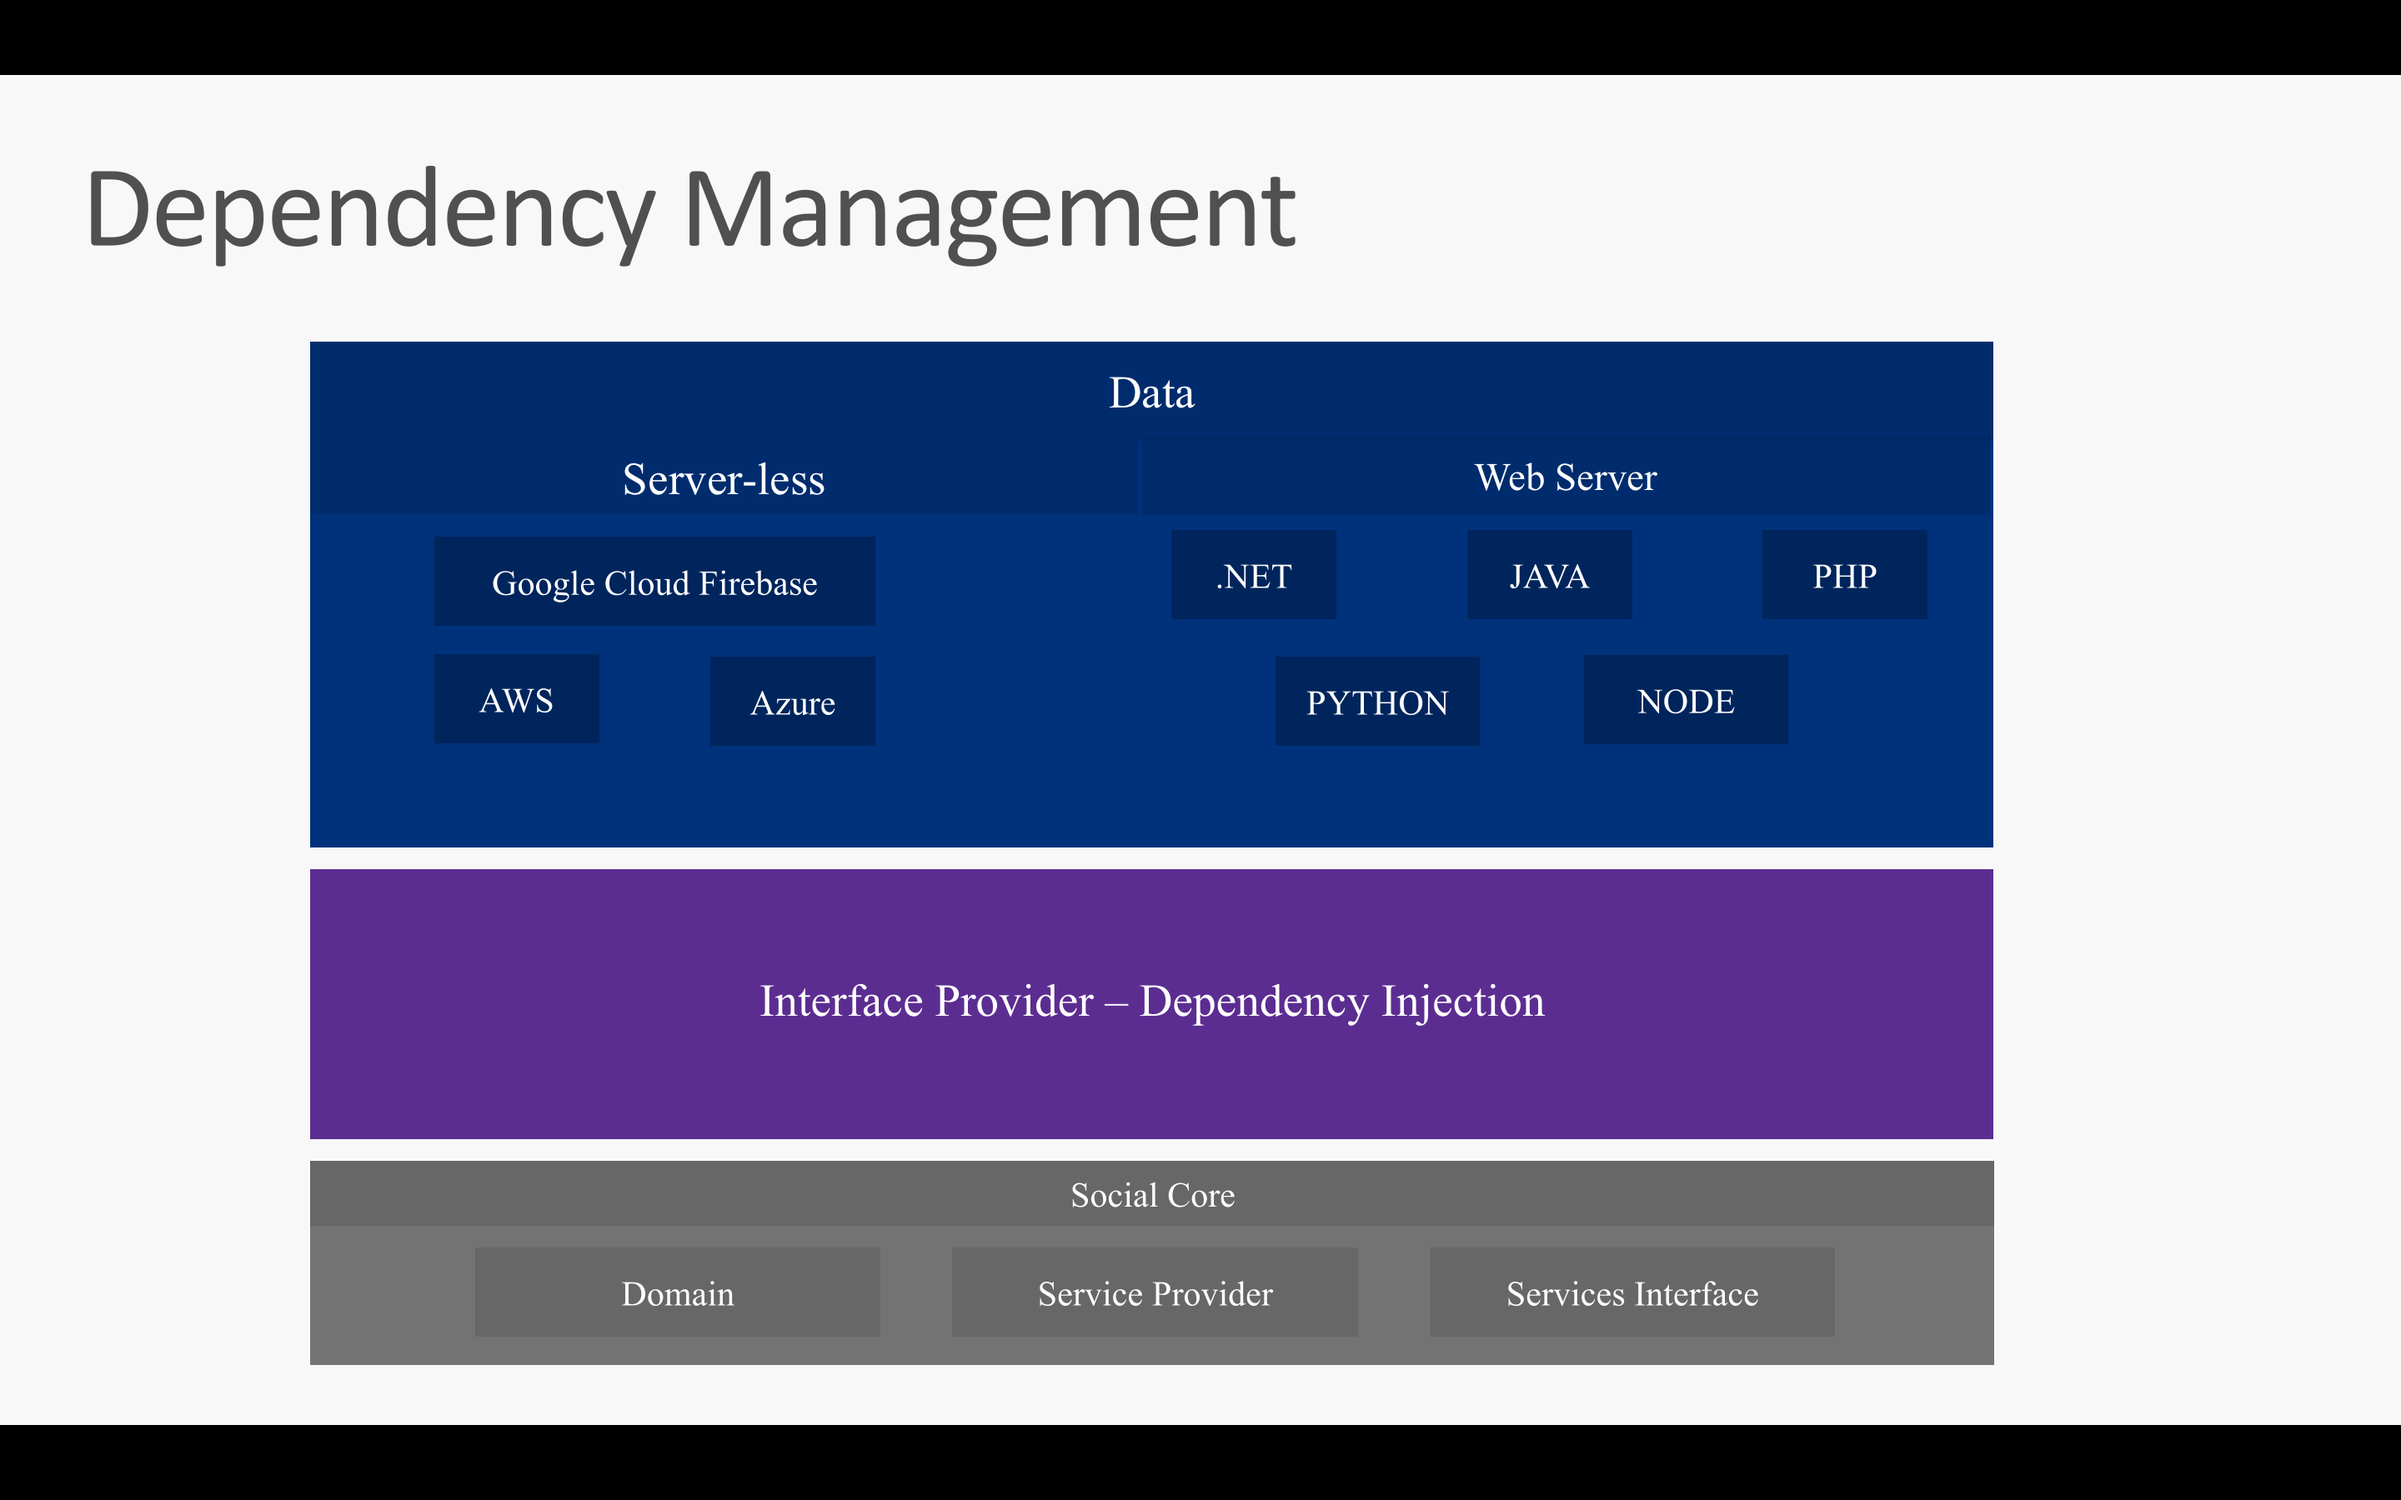
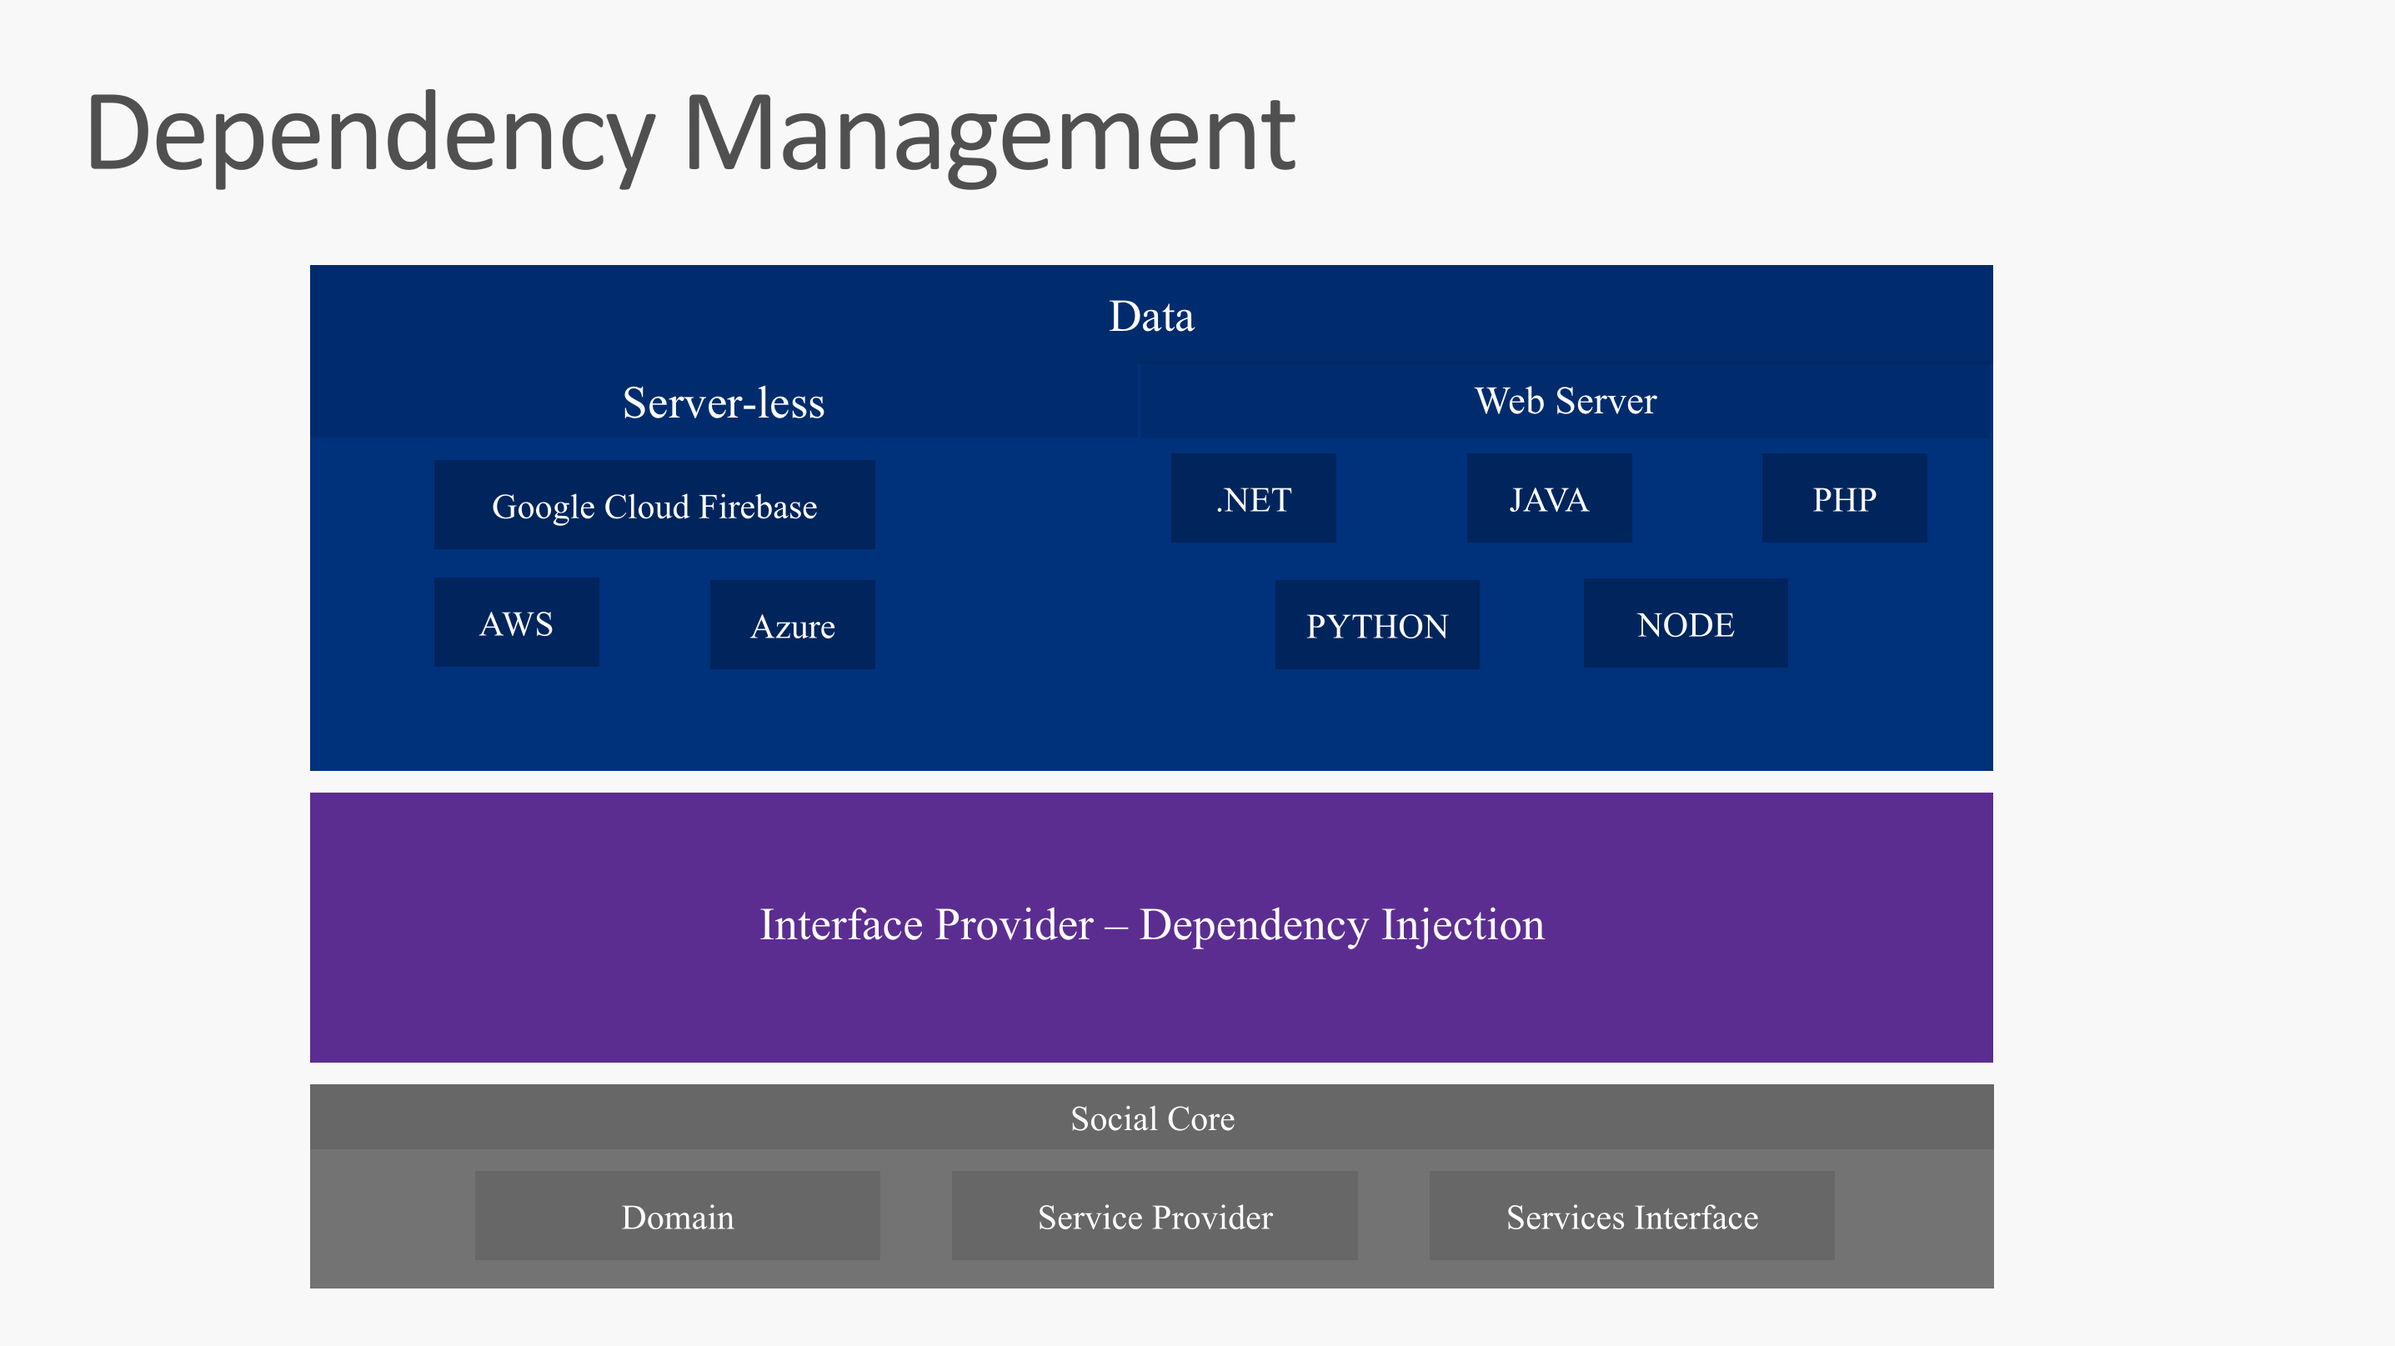
[Docs] Change layer pictures size

diff --git a/docs/layers.md b/docs/layers.md
@@ -18,7 +18,7 @@
     - ASP.NET Data Client
     - PHP Data Client
   ### Components
-<img height="500" width="400" src="https://raw.githubusercontent.com/Qolzam/react-social-network/next/docs/app/layer-4.png">
+<img height="500" width="400" src="https://raw.githubusercontent.com/Qolzam/react-social-network/next/docs/app/layer-3.png">
 
 ## Integrating and reusability in both mobile and web app
     With new structure we are able to develop the mobile app in parallel with web app **only** with changing `Components` layer. It means we can keep `Core`, `Data` layers, `Actions`, `Reducers`, etc. What we have high reusability and fast in producing the products.
